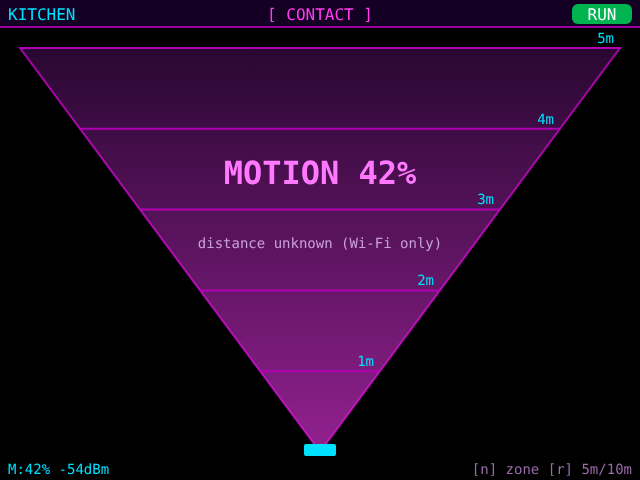
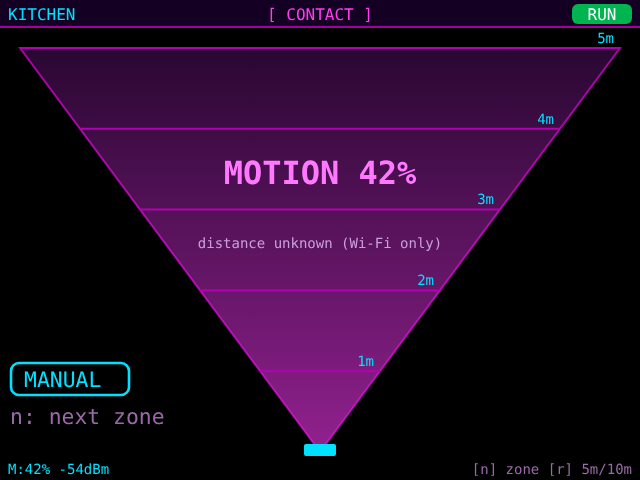
Range cone: AUTO / MANUAL mode badge
Bottom-left badge shows whether the cone follows motion (AUTO, filled) or
shows a zone picked with n (MANUAL, outlined). README preview updated.

Claude-Session: https://claude.ai/code/session_018xph2k9ShW6n6Ma7SuDjky

Changed region(s): [[0.0, 0.75, 0.25, 0.9062]]

diff --git a/src/main.cpp b/src/main.cpp
@@ -1833,6 +1833,27 @@ static void drawTop() {
   // --- the Cardputer at the apex ---
   topCanvas.fillRoundRect(apexX - 8, apexY - 3, 16, 6, 1, cCyan);
 
+#if defined(RADAR_CSI)
+  // --- cone mode badge (only with nodes): AUTO follows motion, MANUAL = picked with n ---
+  if (gNodeCount > 0) {
+    const bool  autoMode = coneAuto();
+    const char* badge    = autoMode ? "AUTO" : "MANUAL";
+    const int   bw       = topCanvas.textWidth(badge) + 10;
+    topCanvas.setTextSize(1);
+    if (autoMode) {
+      topCanvas.fillRoundRect(4, 136, bw, 12, 3, cCyan);
+      topCanvas.setTextColor(TFT_BLACK, cCyan);
+    } else {
+      topCanvas.fillRoundRect(4, 136, bw, 12, 3, TFT_BLACK);
+      topCanvas.drawRoundRect(4, 136, bw, 12, 3, cCyan);
+      topCanvas.setTextColor(cCyan, TFT_BLACK);
+    }
+    topCanvas.drawString(badge, 9, 138);
+    topCanvas.setTextColor(topCanvas.color565(154, 106, 168));
+    topCanvas.drawString(autoMode ? "follows motion" : "n: next zone", 4, 152);
+  }
+#endif
+
   // --- title bar: battery + range | contact state | mode pill ---
   topCanvas.setTextSize(1);
   topCanvas.fillRect(0, 0, W, 14, cBar);
@@ -1867,8 +1888,7 @@ static void drawTop() {
   topCanvas.setTextColor(cCyan);
   topCanvas.drawString(stats, 4, H - 10);
 #if defined(RADAR_CSI)
-  const char* hint = gNodeCount == 0 ? "[r] 5m/10m"
-                   : (coneAuto() ? "[n] AUTO [r] 5m/10m" : "[n] zone [r] 5m/10m");
+  const char* hint = gNodeCount == 0 ? "[r] 5m/10m" : "[n] zone [r] 5m/10m";
 #else
   const char* hint = "[r] 5m/10m";
 #endif

diff --git a/CLAUDE.md b/CLAUDE.md
@@ -21,7 +21,8 @@ Information (CSI). Realistic target: on-device **presence + motion**.
     every 1 m to 5 m or every 2 m to 10 m (`gRange10`, key r, saved in prefs).
     CSI has no distance, so motion = whole-cone glow + `MOTION xx%`; no dots.
     Key n picks the cone's zone (`gConeSel`: 0 = ME, 1..n nodes, n+1 = AUTO;
-    `coneZoneNow()` in zones_core.h, AUTO sticky +10% margin); zone name top-left.
+    `coneZoneNow()` in zones_core.h, AUTO sticky +10% margin); zone name top-left,
+    mode badge bottom-left (AUTO filled / MANUAL outlined, only with nodes).
     LD2410 later: dots on the centre line at the measured distance (moving =
     magenta, still = cyan) with a dashed band across the cone. `.` cycles
     cone → ZONES → 3D raycaster (unchanged, still has its own illustrative blips).

diff --git a/README.md b/README.md
@@ -170,6 +170,7 @@ router sees little. Nodes need USB power (about 100–150 mA each).
 **On screen:**
 - External screen, range cone: `n` picks which zone it shows (name at the top left), or **AUTO**,
   which follows the zone with the strongest motion and stays on it until another one is clearly stronger.
+  A badge at the bottom left says which mode is on: **AUTO** (filled) or **MANUAL** (outlined, zone picked with `n`).
 - External screen, **ZONES** view (`.`): one row per zone, `ME` first. Magenta = motion above the
   threshold, `OFFLINE` when a node hasn't reported for 10 s.
 - Cardputer screen: the banner names the most active zone (`>> KITCHEN <<`), chips show every zone
